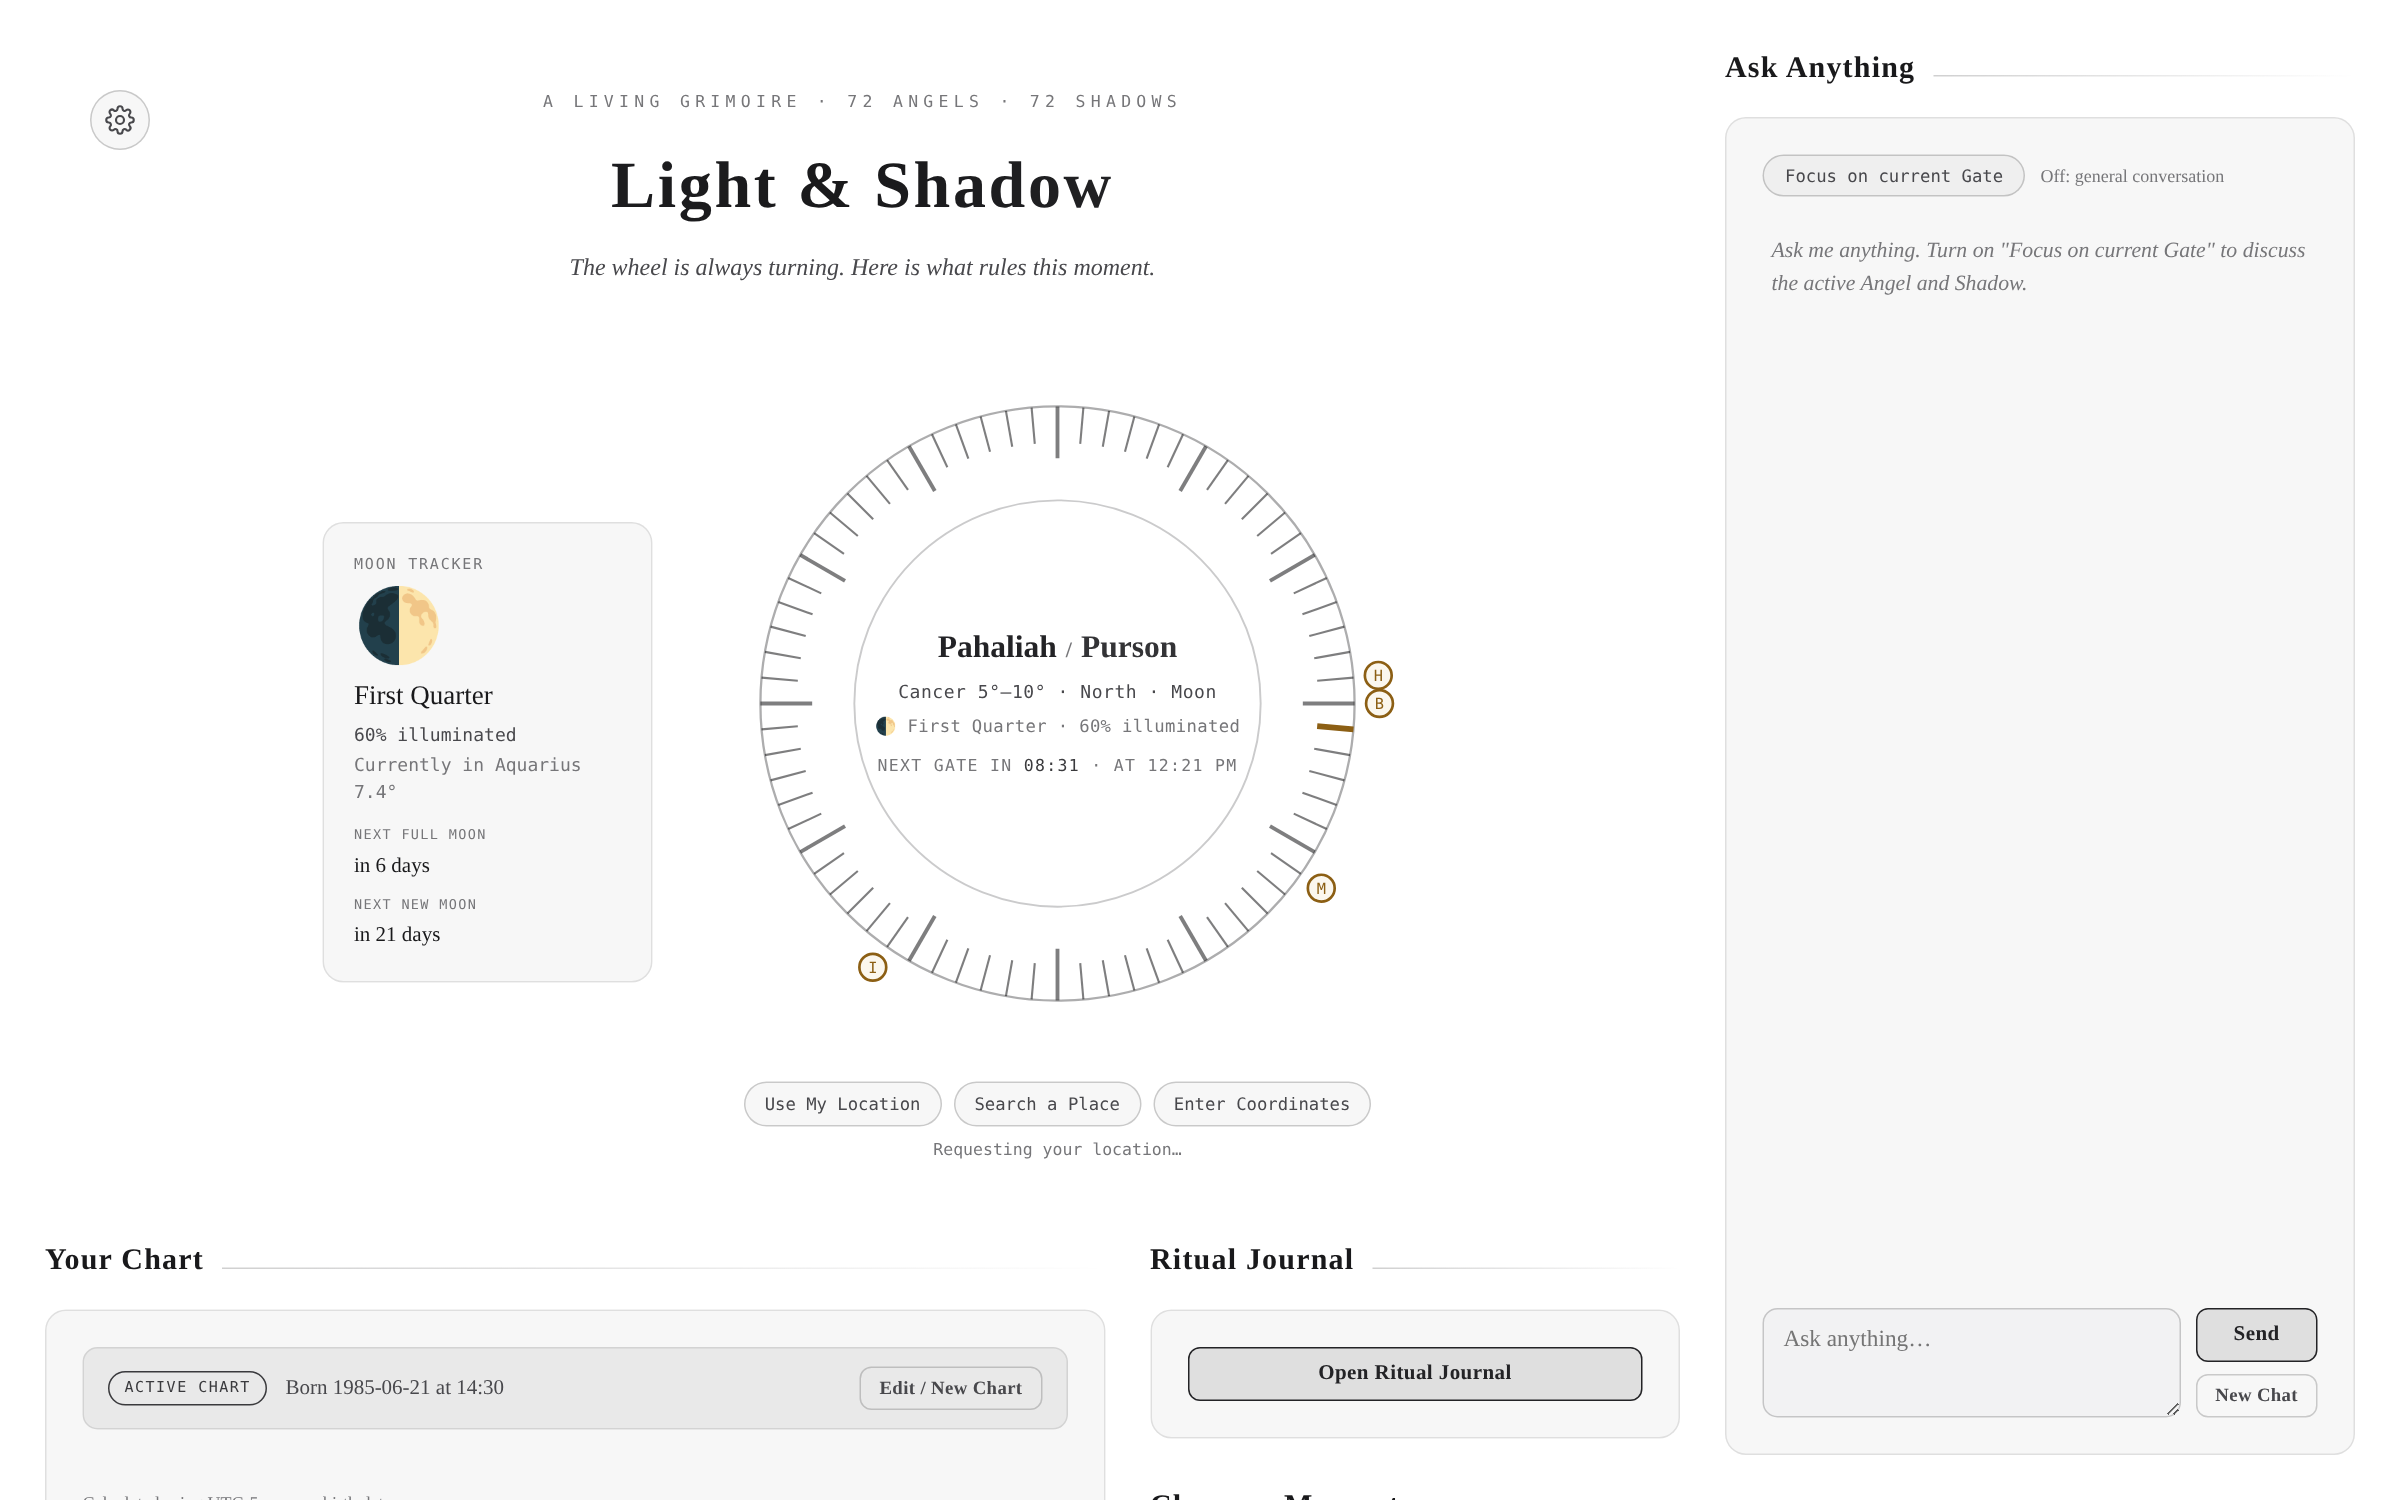
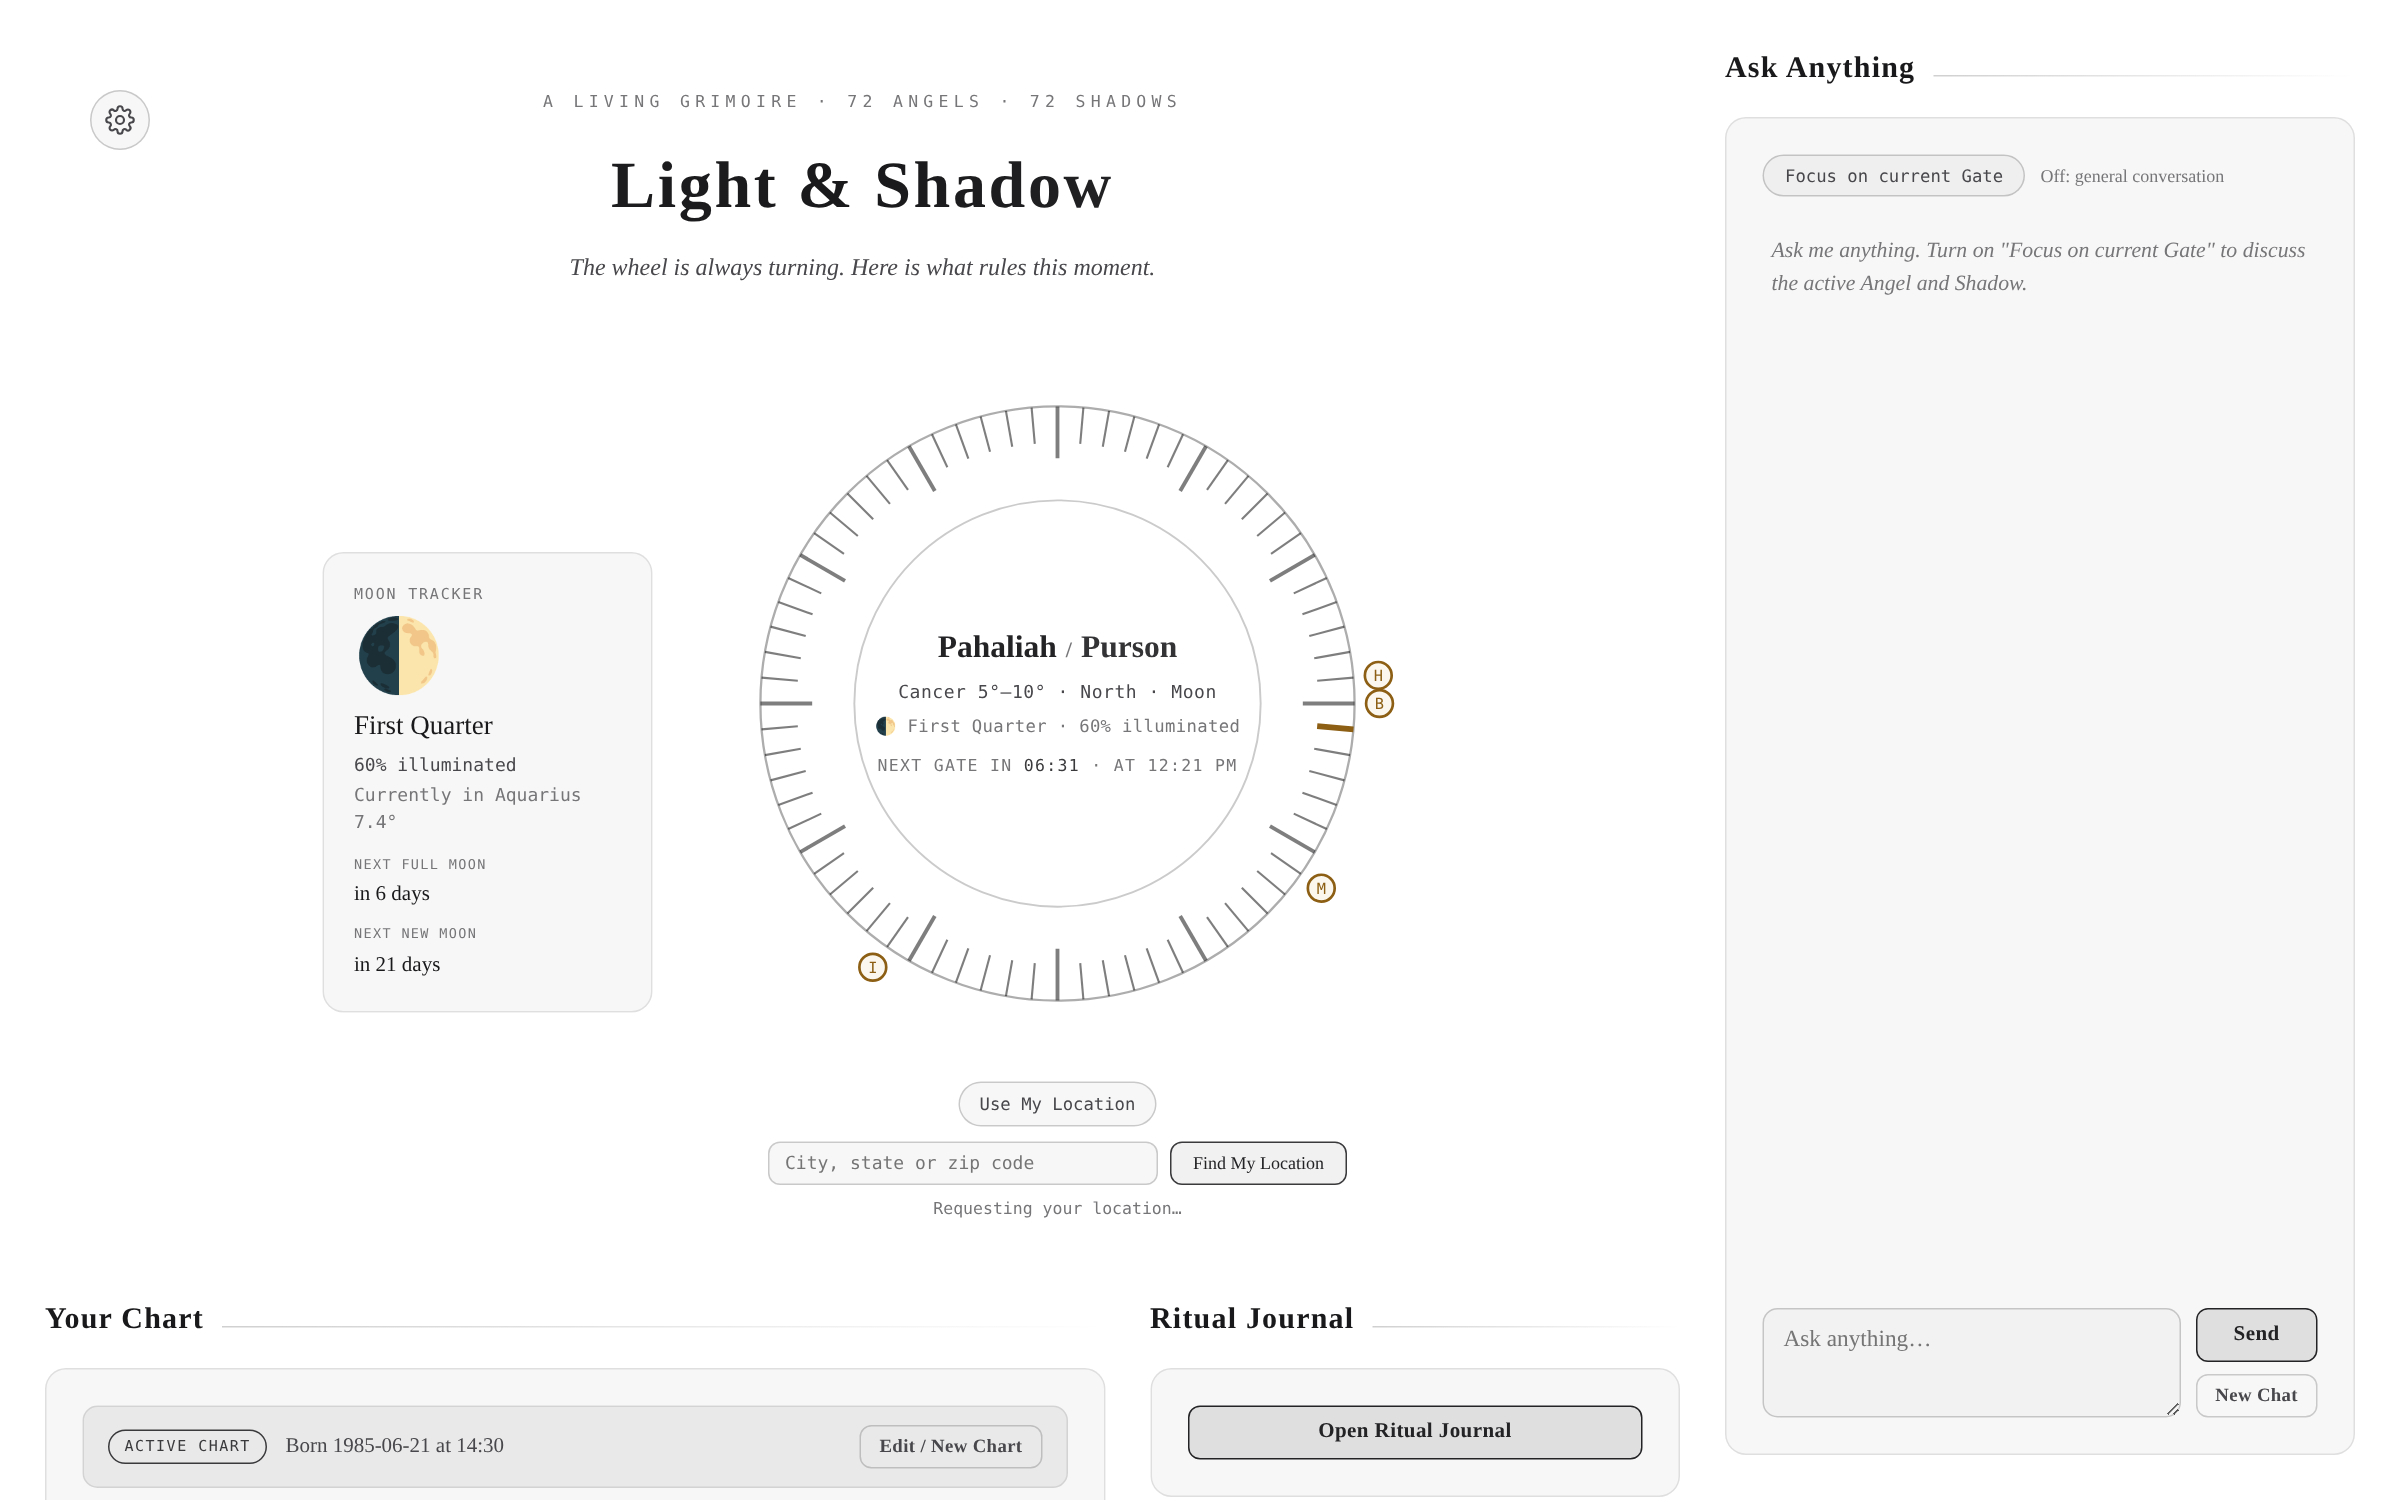
Location: city, state or zip search replaces coordinates entry
Claude-Session: https://claude.ai/code/session_011M8XHM1tV2LcNiVCrgi17i

diff --git a/light-and-shadow.html b/light-and-shadow.html
@@ -806,17 +806,10 @@
 
     <div class="loc-row" id="locRow">
       <button class="chip" data-loc="geo">Use My Location</button>
-      <button class="chip" data-loc="place">Search a Place</button>
-      <button class="chip" data-loc="manual">Enter Coordinates</button>
     </div>
-    <div class="manual-loc" id="placeLoc">
-      <input type="text" id="placeInput" placeholder="City, state or country" style="width:240px;">
-      <button id="applyPlace">Find</button>
-    </div>
-    <div class="manual-loc" id="manualLoc">
-      <input type="text" id="latInput" placeholder="Latitude">
-      <input type="text" id="lonInput" placeholder="Longitude">
-      <button id="applyManual">Apply</button>
+    <div class="manual-loc show" id="placeLoc">
+      <input type="text" id="placeInput" placeholder="City, state or zip code" style="width:260px;" aria-label="City, state or zip code">
+      <button id="applyPlace">Find My Location</button>
     </div>
     <div class="loc-status" id="locStatus">Location not set. Using a generic 6:00 AM sunrise until you choose one.</div>
   </div>
@@ -1407,35 +1400,27 @@ async function findPlace(){
   if (!q) return;
   status.textContent = 'Searching…';
   try{
-    const res = await fetch(`https://nominatim.openstreetmap.org/search?format=jsonv2&limit=1&q=${encodeURIComponent(q)}`, {headers:{'Accept-Language':'en'}});
+    const zipOnly = q.match(/^(\d{5})(?:-\d{4})?$/);
+    const query = zipOnly ? `postalcode=${zipOnly[1]}&countrycodes=us` : `q=${encodeURIComponent(q)}`;
+    const res = await fetch(`https://nominatim.openstreetmap.org/search?format=jsonv2&limit=1&addressdetails=1&${query}`, {headers:{'Accept-Language':'en'}});
     if (!res.ok) throw new Error('lookup failed');
     const r = (await res.json())[0];
-    if (!r){ status.textContent = `Could not find "${q}". Try adding the state or country.`; return; }
-    setLocation(parseFloat(r.lat), parseFloat(r.lon), r.display_name.split(',').slice(0,2).join(',').trim());
+    if (!r){ status.textContent = `Could not find "${q}". Try the city and state, or a 5-digit zip code.`; return; }
+    const a = r.address || {};
+    const place = a.city || a.town || a.village || a.hamlet || a.county || '';
+    const region = a.state || a.country || '';
+    const label = (place && region) ? `${place}, ${region}` : r.display_name.split(',').slice(0,2).join(',').trim();
+    setLocation(parseFloat(r.lat), parseFloat(r.lon), label);
+    document.querySelectorAll('#locRow .chip').forEach(c=>c.classList.remove('active'));
   } catch(_){
-    status.textContent = 'Could not reach the place lookup. Check your connection, or use coordinates.';
+    status.textContent = 'Could not reach the place lookup. Check your connection and try again.';
   }
 }
 document.getElementById('locRow').addEventListener('click', (e)=>{
-  const btn = e.target.closest('.chip');
-  if(!btn) return;
-  document.querySelectorAll('#locRow .chip').forEach(c=>c.classList.remove('active'));
-  btn.classList.add('active');
-  const which = btn.dataset.loc;
-  const manual = document.getElementById('manualLoc');
-  const place = document.getElementById('placeLoc');
-  manual.classList.toggle('show', which==='manual');
-  place.classList.toggle('show', which==='place');
-  if (which==='geo') initLocation();
+  if (e.target.closest('.chip')) initLocation();
 });
 document.getElementById('applyPlace').addEventListener('click', findPlace);
-document.getElementById('placeInput').addEventListener('keydown', (e)=>{ if (e.key==='Enter'){ e.preventDefault(); findPlace(); } });
-document.getElementById('applyManual').addEventListener('click', ()=>{
-  const lat = parseFloat(document.getElementById('latInput').value);
-  const lon = parseFloat(document.getElementById('lonInput').value);
-  if(isNaN(lat)||isNaN(lon)) return;
-  setLocation(lat, lon, "Custom Coordinates");
-});
+document.getElementById('placeInput').addEventListener('keydown', (ev)=>{ if (ev.key==='Enter'){ ev.preventDefault(); findPlace(); } });
 
 /* ---------------- Your Chart ---------------- */
 let natalLat = null, natalLon = null;
@@ -1490,7 +1475,8 @@ async function geocodeCity(){
   if (!query) return;
   status.textContent = 'Locating…';
   try{
-    const url = `https://nominatim.openstreetmap.org/search?format=jsonv2&limit=1&q=${encodeURIComponent(query)}`;
+    const zipOnly = query.match(/^(\d{5})(?:-\d{4})?$/);
+    const url = `https://nominatim.openstreetmap.org/search?format=jsonv2&limit=1&${zipOnly ? 'postalcode=' + zipOnly[1] + '&countrycodes=us' : 'q=' + encodeURIComponent(query)}`;
     const res = await fetch(url, { headers: { 'Accept-Language': 'en' } });
     if (!res.ok) throw new Error('lookup failed');
     const results = await res.json();

diff --git a/README.md b/README.md
@@ -45,7 +45,7 @@ It is built for practitioners who work from a Hermetic Qabalah lens and want the
 
 1. Download `light-and-shadow.html` from this repo (open the file on GitHub and use the download button).
 2. Open it in a current version of Chrome, Edge, Firefox or Safari.
-3. Choose a location with **Use My Location**, **Search a Place** or **Enter Coordinates**. Until you do, the tool uses a generic 6:00 AM sunrise, so window times are only approximate.
+3. Set your location by typing a city and state or a zip code under the wheel and pressing **Find My Location**, or press **Use My Location**. Until you do, the tool uses a generic 6:00 AM sunrise, so window times are only approximate.
 4. Add your chart in **Your Chart** if you want your birth angels marked on the wheel.
 
 Everything above works without an API key. Only the chat and the Latin Composer need one.
